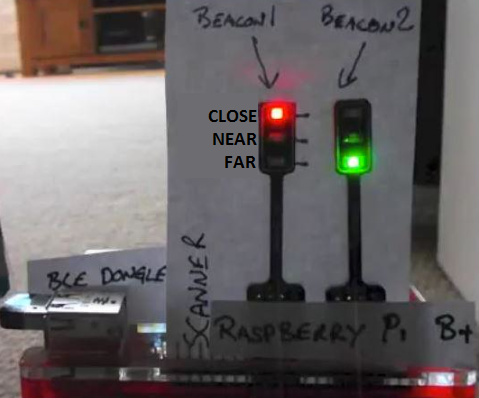
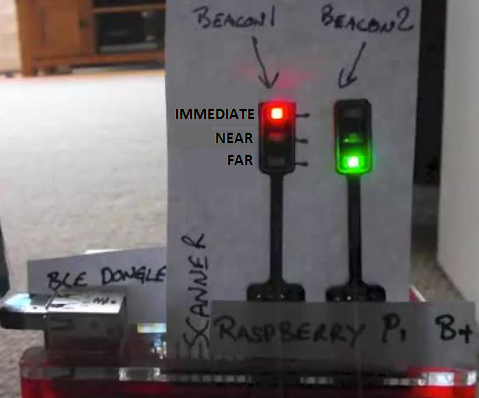
Change CLOSE to IMMEDIATE.

Changed region(s): [[0.3507, 0.2714, 0.5553, 0.4221]]

diff --git a/tracker.js b/tracker.js
@@ -1,17 +1,17 @@
 
-var CLOSE_RANGE = 2; //* distance < CLOSE_RANGE, red light will go on.*//
-                     //* CLOSE_RANGE <= distance <= FAR_RANGE, amber light goes on.*//
-var FAR_RANGE = 10;  //* distance > FAR_RANGE, green light will go on.*//
+var IMMEDIATE_RANGE = 2; //* distance < IMMEDIATE_RANGE, red light will go on.              *//
+                         //* IMMEDIATE_RANGE <= distance <= FAR_RANGE, amber light goes on. *//
+var FAR_RANGE = 10;      //* distance > FAR_RANGE, green light will go on.                  *//
 
 var UriBeaconScanner = require('uri-beacon-scanner');
 var BeaconLights = require('beaconLights');
 
 UriBeaconScanner.on('discover', function(uriBeacon) {
    if(beacon1RegExp.test(uriBeacon.uri)) {
-       beacon1_id.newScan(uriBeacon.rssi, uriBeacon.txPower, CLOSE_RANGE, FAR_RANGE);
+       beacon1_id.newScan(uriBeacon.rssi, uriBeacon.txPower, IMMEDIATE_RANGE, FAR_RANGE);
        console.log('Beacon1: rssi = ' + uriBeacon.rssi + ' [' + uriBeacon.txPower + ']')
    } else if (beacon2RegExp.test(uriBeacon.uri)) {
-       beacon2_id.newScan(uriBeacon.rssi, uriBeacon.txPower, CLOSE_RANGE, FAR_RANGE);
+       beacon2_id.newScan(uriBeacon.rssi, uriBeacon.txPower, IMMEDIATE_RANGE, FAR_RANGE);
        console.log('Beacon2: rssi = ' + uriBeacon.rssi + ' [' + uriBeacon.txPower + ']')
    }
 });
@@ -28,7 +28,7 @@ var beacon1RegExp = new RegExp(process.argv[2]);
 var beacon2RegExp = new RegExp(process.argv[3]);
 
 //* Links beacon ID and pin numbers to display red/amber/green to for each beacon.*//
-//* See appendix 1.*//
+//* See appendix 1.                                                               *//
 var beacon1_id = new BeaconLights(process.argv[2], 21, 20, 16);
 var beacon2_id = new BeaconLights(process.argv[3], 7, 8, 25);
 

diff --git a/docs/workshop_manual.html b/docs/workshop_manual.html
@@ -157,7 +157,7 @@
 </p>
 <p>
     You should also see the traffic lights on the Raspberry Pi board light up. Below is a picture of what to expect,
-    if a beacon is close by the light is red, amber for near, green for far (once you've tested your code you'll get
+    if a beacon is in the immediate range the light is red, amber for near, green for far (once you've tested your code you'll get
     the opportunity to change the distance sensitivity and the light sequence).
 </p>
 
@@ -191,15 +191,15 @@
 
 <h2>Change the range</h2>
 <p>
-    Experiment with changing the distance sensitivity of the scanner. The variables CLOSE_RANGE and FAR_RANGE control when the different lights come on. <br><br>
-    <font color="red">CLOSE</font> < CLOSE_RANGE <br>
-    CLOSE_RANGE <= <font color="orange">NEAR</font> <= FAR_RANGE <br>
+    Experiment with changing the distance sensitivity of the scanner. The variables IMMEDIATE_RANGE and FAR_RANGE control when the different lights come on. <br><br>
+    <font color="red">IMMEDIATE</font> < IMMEDIATE_RANGE <br>
+    IMMEDIATE_RANGE <= <font color="orange">NEAR</font> <= FAR_RANGE <br>
     <font color="green">FAR</font> > FAR_RANGE <br>
 </p>
 
 <h2>Reverse order of lights</h2>
 <p>
-    Experiment with changing the colours that light up corresponding to CLOSE, NEAR, and FAR. <br><br>
+    Experiment with changing the colours that light up corresponding to IMMEDIATE, NEAR, and FAR. <br><br>
     Look for where the function "BeaconLights" is called and try swapping the pin order.
 </p>
 <P CLASS="pagebreak"></p>

diff --git a/README.md b/README.md
@@ -47,10 +47,10 @@ sudo node tracker.js "uri_for_beacon1" "uri_for_beacon2"
 - [ ] Move from uriBeacon to Eddystone Beacon
 
 ### @soniacaldwell
+- [x] Review CLOSE/NEAR/FAR nomenclature => IMMEDIATE/NEAR/FAR
 - [ ] Test code, typing from scratch - time test, debug tips
 - [ ] ROLLING_AVERAGE to top level for 3 activity?
 
 ### unassigned
 - [ ] Find better ranging algorithm
-- [ ] Review CLOSE/NEAR/FAR nomenclature
 - [ ] Create image for all workshop machines
